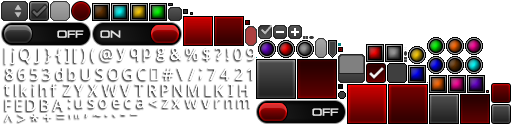
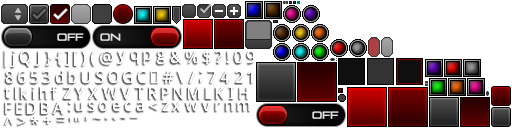
Update skin assets & automate textfield padding.
Remove manual code for setting textfield padding, as the new 9 patch
images in the updated skin assets have built-in padding that gets added
as true inner padding to the left & right of the textfield (so the text
doesn't start & end at the extreme edges of the textfield).

diff --git a/client/src/main/java/com/forerunnergames/peril/client/ui/screens/game/play/modes/classic/widgets/ChatBox.java b/client/src/main/java/com/forerunnergames/peril/client/ui/screens/game/play/modes/classic/widgets/ChatBox.java
@@ -27,8 +27,6 @@ public final class ChatBox extends DefaultMessageBox <ChatMessage>
   private static final int SCROLLPANE_HEIGHT = 226 - 2 - 2;
   private static final int SCROLLPANE_TEXTFIELD_VERTICAL_PADDING = 2 + 2;
   private static final int TEXTFIELD_HEIGHT = 24;
-  private static final int TEXTFIELD_INNER_PADDING_LEFT = 12;
-  private static final int TEXTFIELD_INNER_PADDING_RIGHT = 14;
   private final Table table;
   private final TextField textField;
 
@@ -42,13 +40,6 @@ public final class ChatBox extends DefaultMessageBox <ChatMessage>
 
     Arguments.checkIsNotNull (textFieldStyle, "textFieldStyle");
     Arguments.checkIsNotNull (eventBus, "eventBus");
-
-    textFieldStyle.background.setLeftWidth (TEXTFIELD_INNER_PADDING_LEFT);
-    textFieldStyle.background.setRightWidth (TEXTFIELD_INNER_PADDING_RIGHT);
-    textFieldStyle.focusedBackground.setLeftWidth (TEXTFIELD_INNER_PADDING_LEFT);
-    textFieldStyle.focusedBackground.setRightWidth (TEXTFIELD_INNER_PADDING_RIGHT);
-    textFieldStyle.disabledBackground.setLeftWidth (TEXTFIELD_INNER_PADDING_LEFT);
-    textFieldStyle.disabledBackground.setRightWidth (TEXTFIELD_INNER_PADDING_RIGHT);
 
     textField = new TextField ("", textFieldStyle)
     {
